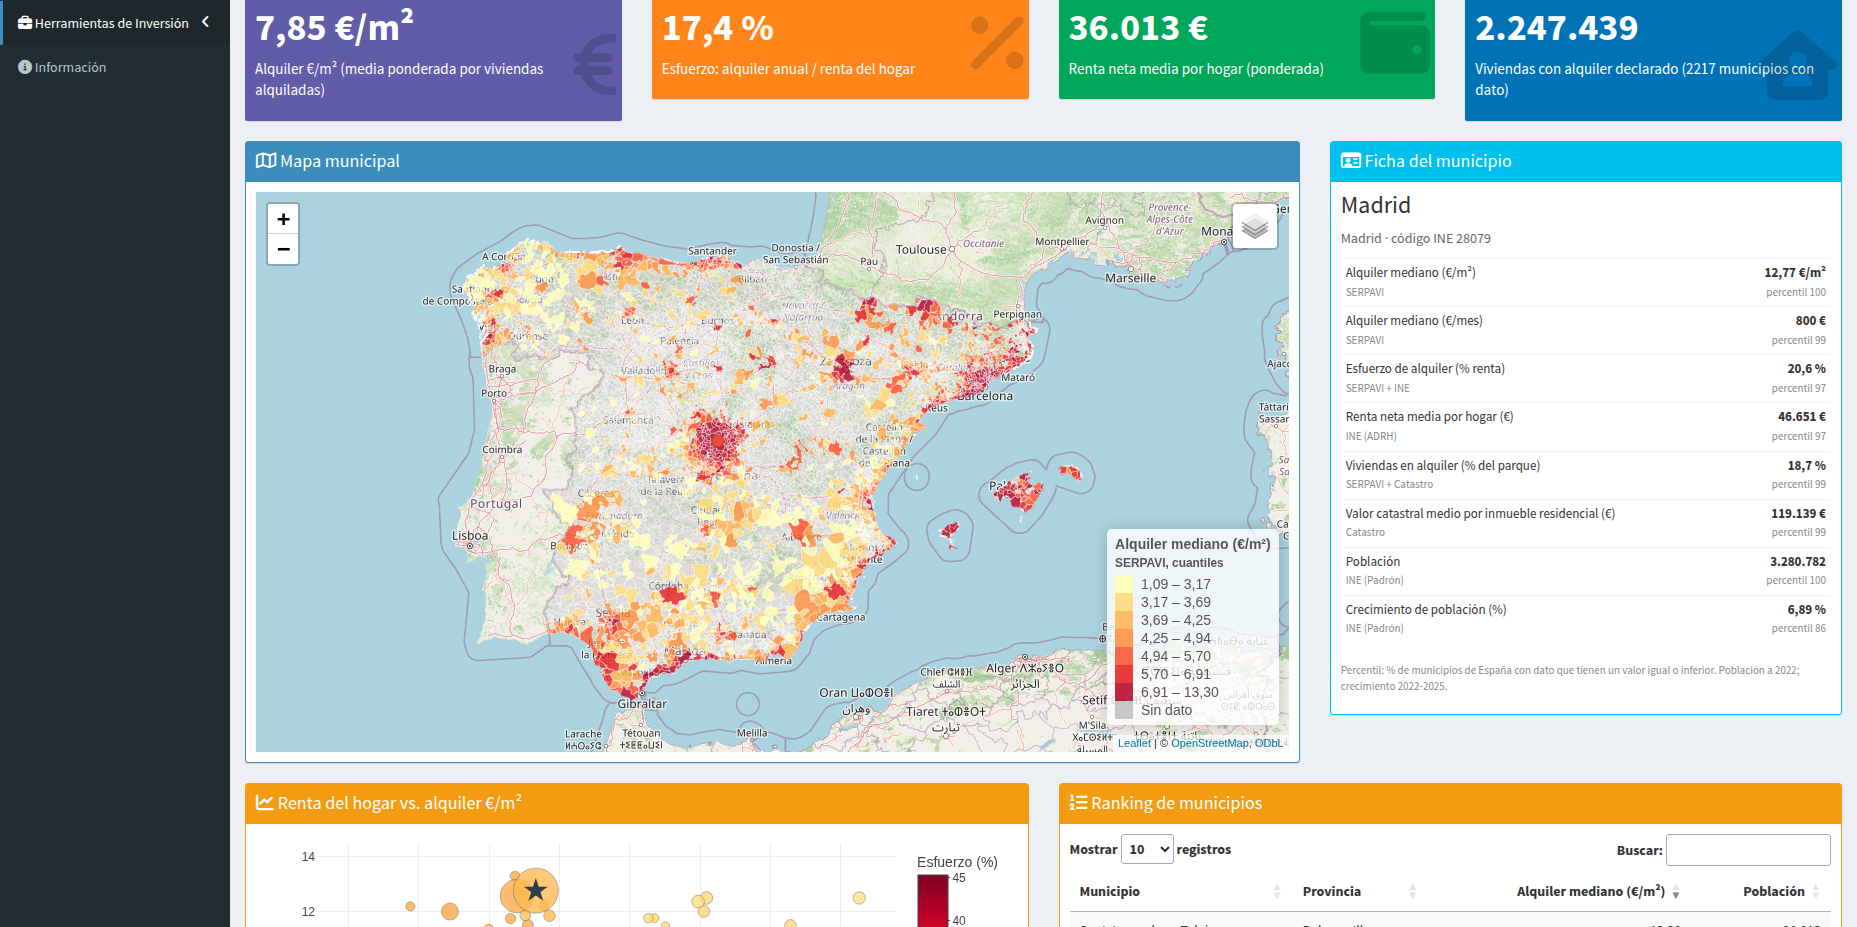
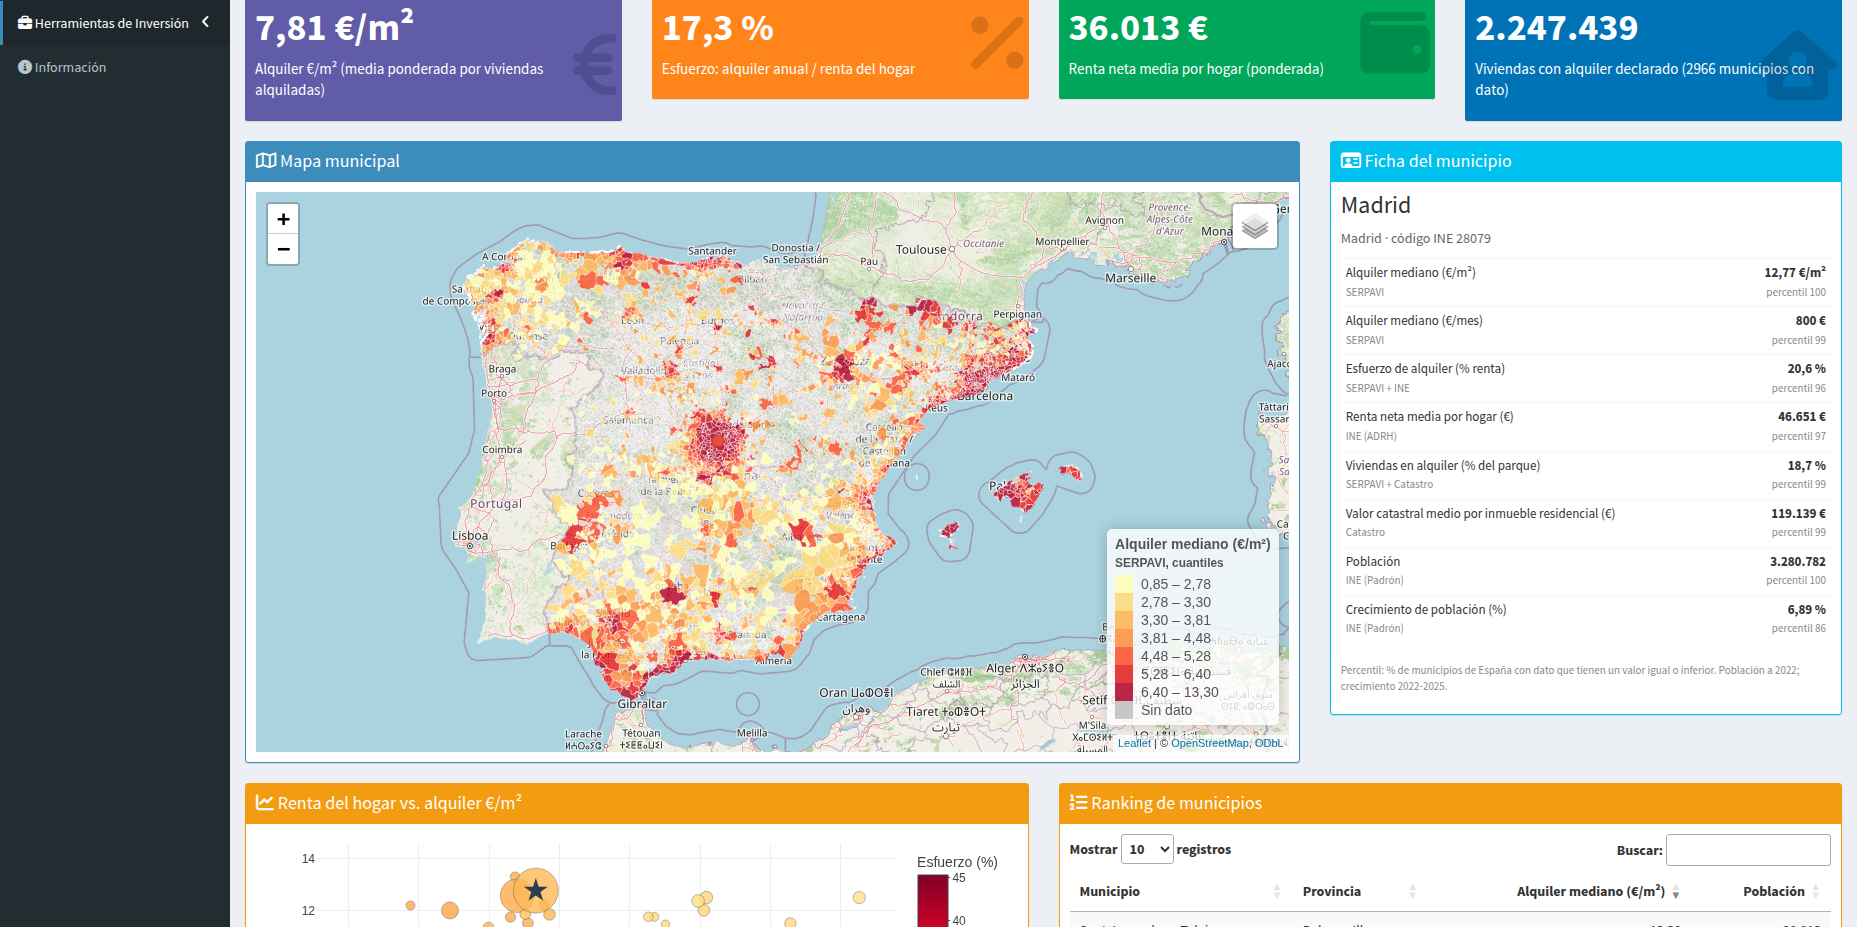
Updated Docs

diff --git a/README.md b/README.md
@@ -16,6 +16,7 @@
 ## Índice
 
 - [Descripción General](#descripcion-general)
+- [Arquitectura](#arquitectura)
 - [Características Principales / Módulos](#caracteristicas-principales)
   - [1. Exploración Espacial](#exploracion-espacial)
   - [2. Analítica & Machine Learning](#analitica-ml)
@@ -53,7 +54,33 @@ Para lograrlo, GeoAlquiler se apoya en tres pilares, más un observatorio a esca
 3. **Herramientas de Inversión** — traducir los datos en decisiones concretas de compra/alquiler mediante calculadoras y comparativas.
 4. **Observatorio del Alquiler en España** — mapa coroplético de los ~8.200 municipios que cruza el índice oficial de alquiler del Ministerio de Vivienda (SERPAVI) con la renta y la población del INE y el parque residencial del Catastro.
 
+### Cómo está construido
+
+La app se organiza en tres capas que no se mezclan, y cada cambio tiene un sitio claro (el esquema completo está en [Arquitectura](#arquitectura)):
+
+- **Ingesta offline** (`scripts/ingesta/`). Descargar, limpiar y cruzar las fuentes se hace a mano con `Rscript scripts/ingesta/run_pipeline.R`, nunca dentro de la app. El resultado son dos ficheros Parquet que viajan con el paquete, así que la app arranca rápido y no depende de que ninguna web externa responda. Si una fuente cambia de formato, falla el pipeline con un error explícito, no la app en producción.
+- **Lógica de negocio sin Shiny** (`R/fct_*.R`). Los cálculos que importan (indicadores, cruce de nombres de municipio, formato de cifras, geometría del mapa) son funciones puras que usan tanto el pipeline como la app, y se prueban con `testthat` sin levantar un servidor.
+- **Interfaz por módulos** (`R/mod_*.R`). Cada pantalla es un módulo independiente. `app_server.R` solo los ensambla y decide qué versión de los datos recibe cada uno, que es la decisión de diseño central de la app:
+
+| El módulo recibe… | Módulos | Por qué |
+|---|---|---|
+| `datos_visibles`: filtros + lo que se ve en el mapa | Tabla, Analítica, Estadística, Oportunidades, Calculadora, Informe, Exportar | Responden a "lo que estoy mirando ahora" |
+| Datos filtrados, sin recorte del mapa | Recomendador KNN | Buscar similares solo en el encuadre daría muy pocos candidatos |
+| Dataset completo | Comparador, Predicción, Barrios, Favoritos | Necesitan todo el mercado: entrenar el modelo, comparar ciudades, no perder favoritos al filtrar |
+| Su propio dataset | Observatorio | Datos oficiales agregados por municipio, independientes de los filtros |
+
+El trabajo pesado se hace en el servidor y al navegador solo llega lo que se va a pintar (ver [Rendimiento y Diseño Responsive](#rendimiento-responsive)).
+
 El proyecto está pensado como pieza de **portfolio técnico**, demostrando dominio de arquitectura de aplicaciones Shiny a nivel de paquete de R (framework `{golem}`), modularización, buenas prácticas de testing y un enfoque de producto orientado a un caso de uso real (PropTech / Real Estate Analytics). Los precios por zona proceden de fuentes reales (Generalitat de Catalunya, Generalitat Valenciana, Gobierno Vasco) o, donde no existe fuente oficial, de índices publicados documentados a mano (ver `scripts/ingesta/`).
+
+[⬆ Volver arriba](#top)
+
+---
+
+<a id="arquitectura"></a>
+## Arquitectura
+
+![Esquema de la arquitectura de GeoAlquiler: la ingesta offline genera dos ficheros Parquet; la app Shiny los carga en app_server.R, que reparte datos visibles, filtrados o completos a cada módulo, y el Observatorio carga su propio fichero una vez por proceso; el navegador recibe widgets ya preparados y devuelve clics, filtros y encuadre como eventos.](man/figures/arquitectura.svg)
 
 [⬆ Volver arriba](#top)
 
@@ -223,13 +250,14 @@ geo-alquiler/
 │   ├── mod_calculadora.R    # Módulo: calculadora de rentabilidad
 │   ├── mod_reporte.R        # Módulo: informe ejecutivo descargable
 │   ├── mod_observatorio.R   # Módulo: Observatorio del Alquiler en España (mapa coroplético)
-│   └── fct_observatorio.R   # Lógica del observatorio sin Shiny (indicadores, formato, WKB -> sf)
+│   └── fct_observatorio.R   # Lógica del observatorio sin Shiny (indicadores, formato, motivos de "sin dato",
+│                            #   WKB -> sf, serialización de la geometría para Leaflet, caché por proceso)
 ├── inst/
 │   └── app/
 │       ├── data/           # Datos empaquetados con la app (alquileres.parquet, observatorio_municipios.parquet)
 │       └── www/            # CSS/JS responsive (custom.css, custom.js) -- ver "Rendimiento y Diseño Responsive"
 ├── man/
-│   └── figures/            # Capturas de pantalla usadas en este README
+│   └── figures/            # Capturas de pantalla y esquema de arquitectura usados en este README
 ├── data/
 │   └── processed/          # Datos procesados en formatos .rds / .parquet
 ├── scripts/
@@ -254,7 +282,7 @@ geo-alquiler/
 │       ├── test_calculos.R        # Tests de lógica de cálculo (precio/m², KPIs, etc.)
 │       ├── test_mod_tabla.R       # Tests del módulo de tabla
 │       ├── test_tabla.R           # Tests adicionales de tabla/datos
-│       └── test_observatorio.R    # Tests del observatorio (indicadores, cruce de nombres, módulo)
+│       └── test_observatorio.R    # Tests del observatorio (indicadores, cruce de nombres, geometría, módulo)
 ├── renv.lock                      # Lockfile de renv (reproducibilidad de dependencias)
 └── geo-alquiler.Rproj             # Proyecto de RStudio
 ```
@@ -320,7 +348,7 @@ Los "anuncios" individuales son una ilustración generada dentro de cada zona ge
 
 ### Observatorio del Alquiler (SERPAVI + INE + Catastro)
 
-El Observatorio usa un segundo fichero, `inst/app/data/observatorio_municipios.parquet` (~4,7 MB, una fila por municipio con su geometría en WKB), generado por `scripts/ingesta/09_observatorio.R`:
+El Observatorio usa un segundo fichero, `inst/app/data/observatorio_municipios.parquet` (~4,8 MB, una fila por municipio con su geometría en WKB), generado por `scripts/ingesta/09_observatorio.R`:
 
 | Fuente | Qué se descarga | Cómo |
 |---|---|---|
@@ -363,7 +391,8 @@ El año de referencia común está en `ANIO_OBSERVATORIO` (`scripts/ingesta/00_c
 | [`DT`](https://cran.r-project.org/package=DT) | Tablas de datos interactivas |
 | [`plotly`](https://cran.r-project.org/package=plotly) | Gráficos interactivos de analítica visual |
 | [`sf`](https://cran.r-project.org/package=sf) | Geometría municipal del Observatorio (lectura del WKB guardado en Parquet) |
-| [`jsonlite`](https://cran.r-project.org/package=jsonlite) / [`htmltools`](https://cran.r-project.org/package=htmltools) | Serialización en caché de la geometría del Observatorio y etiquetas HTML |
+| [`htmlwidgets`](https://cran.r-project.org/package=htmlwidgets) | Aviso del navegador cuando el mapa del Observatorio ya está pintado (`onRender`), para enviar después el gráfico y el ranking |
+| [`jsonlite`](https://cran.r-project.org/package=jsonlite) | Lectura de los clics del gráfico del Observatorio |
 
 A esto se suma `{testthat}` como dependencia de desarrollo para la suite de tests, y `{renv}` para el control de versiones de todas las dependencias. Además, necesitas `{roxygen2}` instalado para generar el archivo `NAMESPACE` del paquete (ver paso 4 de la instalación) — sin él, la aplicación **no arranca correctamente**, ya que `NAMESPACE` es lo que le indica a R qué funciones de `shiny`, `leaflet`, `DT`, etc. debe poner a disposición del código de la app.
 
@@ -567,7 +596,7 @@ R CMD check --no-manual GeoAlquiler_*.tar.gz
 <a id="testing-calidad"></a>
 ## Testing & Calidad
 
-GeoAlquiler incluye una suite de **pruebas unitarias** con **[`{testthat}`](https://testthat.r-lib.org/)**, siguiendo la estructura estándar de un paquete de R (`tests/testthat/`). Las pruebas actuales cubren, entre otros aspectos, la lógica de cálculo de métricas (p. ej. precio por m²) y el comportamiento seguro de los KPIs ante conjuntos de datos vacíos, el módulo de tabla y el Observatorio (`test_observatorio.R`: indicadores derivados y su manejo de datos ausentes, formato numérico español, cortes por cuantiles, reconstrucción de la geometría, normalización y cruce de nombres de municipio entre INE/Catastro/IGN, parseo de las tablas del Catastro, y el módulo con `testServer`).
+GeoAlquiler incluye una suite de **pruebas unitarias** con **[`{testthat}`](https://testthat.r-lib.org/)**, siguiendo la estructura estándar de un paquete de R (`tests/testthat/`). Las pruebas actuales cubren, entre otros aspectos, la lógica de cálculo de métricas (p. ej. precio por m²) y el comportamiento seguro de los KPIs ante conjuntos de datos vacíos, el módulo de tabla y el Observatorio (`test_observatorio.R`: indicadores derivados y su manejo de datos ausentes, formato numérico español, cortes por cuantiles, reconstrucción de la geometría, normalización y cruce de nombres de municipio entre INE/Catastro/IGN, cruce aproximado de nombres renombrados o en otro idioma, motivo de cada dato ausente, parseo de las tablas del Catastro, que el JSON de geometría generado a mano sea idéntico al de Leaflet, la caché de geometría por ámbito, y el módulo con `testServer`).
 
 ### Ejecutar todos los tests
 

diff --git a/README.en.md b/README.en.md
@@ -16,6 +16,7 @@
 ## Table of Contents
 
 - [Overview](#overview)
+- [Architecture](#architecture)
 - [Key Features / Modules](#key-features)
   - [1. Spatial Exploration](#spatial-exploration)
   - [2. Analytics & Machine Learning](#analytics-ml)
@@ -53,7 +54,33 @@ To achieve this, GeoAlquiler is built on three pillars, plus a nationwide observ
 3. **Investment Tools** — turn the data into concrete buy/rent decisions through calculators and comparisons.
 4. **Spain Rental Observatory** — a choropleth map of Spain's ~8,200 municipalities that cross-references the Ministry of Housing's official rental index (SERPAVI) with INE income and population data and the Cadastre's housing stock.
 
+### How it's built
+
+The app is organized in three layers that don't mix, so every change has an obvious place (the full diagram is in [Architecture](#architecture)):
+
+- **Offline ingestion** (`scripts/ingesta/`). Downloading, cleaning and joining the sources is done by hand with `Rscript scripts/ingesta/run_pipeline.R`, never inside the app. The output is two Parquet files that ship with the package, so the app starts fast and doesn't depend on any external website being up. If a source changes format, the pipeline fails with an explicit error instead of the app failing in production.
+- **Business logic without Shiny** (`R/fct_*.R`). The calculations that matter (indicators, municipality name matching, number formatting, map geometry) are pure functions shared by the pipeline and the app, and they're tested with `testthat` without starting a server.
+- **Module-based interface** (`R/mod_*.R`). Each screen is an independent module. `app_server.R` only wires them together and decides which version of the data each one receives, which is the app's central design decision:
+
+| The module receives… | Modules | Why |
+|---|---|---|
+| `datos_visibles`: filters + what's visible on the map | Table, Analytics, Statistics, Opportunities, Calculator, Report, Export | They answer "what am I looking at right now" |
+| Filtered data, not cropped to the map | KNN Recommender | Searching for similar listings only within the map view would leave very few candidates |
+| Full dataset | Comparator, Prediction, Neighborhoods, Favorites | They need the whole market: training the model, comparing cities, not losing favorites when filtering |
+| Its own dataset | Observatory | Official data aggregated by municipality, independent of the filters |
+
+Heavy lifting happens on the server, and only what will be drawn reaches the browser (see [Performance & Responsive Design](#performance-responsive)).
+
 The project is designed as a **technical portfolio piece**, demonstrating mastery of Shiny application architecture at the R-package level (the `{golem}` framework), modularization, testing best practices, and a product-oriented approach to a real use case (PropTech / Real Estate Analytics). Per-zone prices come from real sources (Generalitat de Catalunya, Generalitat Valenciana, Basque Government) or, where no official source exists, from published indices documented by hand (see `scripts/ingesta/`).
+
+[⬆ Back to top](#top)
+
+---
+
+<a id="architecture"></a>
+## Architecture
+
+![GeoAlquiler architecture diagram: offline ingestion produces two Parquet files; the Shiny app loads them in app_server.R, which hands visible, filtered or full data to each module, while the Observatory loads its own file once per process; the browser receives ready-made widgets and sends clicks, filters and map view back as events.](man/figures/arquitectura.en.svg)
 
 [⬆ Back to top](#top)
 
@@ -223,13 +250,14 @@ geo-alquiler/
 │   ├── mod_calculadora.R    # Module: profitability calculator
 │   ├── mod_reporte.R        # Module: downloadable executive report
 │   ├── mod_observatorio.R   # Module: Spain Rental Observatory (choropleth map)
-│   └── fct_observatorio.R   # Observatory logic without Shiny (indicators, formatting, WKB -> sf)
+│   └── fct_observatorio.R   # Observatory logic without Shiny (indicators, formatting, "no data" reasons,
+│                            #   WKB -> sf, geometry serialization for Leaflet, per-process cache)
 ├── inst/
 │   └── app/
 │       ├── data/           # Data bundled with the app (alquileres.parquet, observatorio_municipios.parquet)
 │       └── www/            # Responsive CSS/JS (custom.css, custom.js) -- see "Performance & Responsive Design"
 ├── man/
-│   └── figures/            # Screenshots used in this README
+│   └── figures/            # Screenshots and architecture diagram used in this README
 ├── data/
 │   └── processed/          # Processed data in .rds / .parquet formats
 ├── scripts/
@@ -254,7 +282,7 @@ geo-alquiler/
 │       ├── test_calculos.R        # Calculation logic tests (price/m², KPIs, etc.)
 │       ├── test_mod_tabla.R       # Tests for the table module
 │       ├── test_tabla.R           # Additional table/data tests
-│       └── test_observatorio.R    # Observatory tests (indicators, name matching, module)
+│       └── test_observatorio.R    # Observatory tests (indicators, name matching, geometry, module)
 ├── renv.lock                      # renv lockfile (dependency reproducibility)
 └── geo-alquiler.Rproj             # RStudio project
 ```
@@ -320,7 +348,7 @@ Individual "listings" are an illustration generated within each geolocated zone 
 
 ### Rental Observatory (SERPAVI + INE + Cadastre)
 
-The Observatory uses a second file, `inst/app/data/observatorio_municipios.parquet` (~4.7 MB, one row per municipality with its geometry as WKB), generated by `scripts/ingesta/09_observatorio.R`:
+The Observatory uses a second file, `inst/app/data/observatorio_municipios.parquet` (~4.8 MB, one row per municipality with its geometry as WKB), generated by `scripts/ingesta/09_observatorio.R`:
 
 | Source | What's downloaded | How |
 |---|---|---|
@@ -363,7 +391,8 @@ The common reference year lives in `ANIO_OBSERVATORIO` (`scripts/ingesta/00_conf
 | [`DT`](https://cran.r-project.org/package=DT) | Interactive data tables |
 | [`plotly`](https://cran.r-project.org/package=plotly) | Interactive visual analytics charts |
 | [`sf`](https://cran.r-project.org/package=sf) | The Observatory's municipal geometry (reading the WKB stored in Parquet) |
-| [`jsonlite`](https://cran.r-project.org/package=jsonlite) / [`htmltools`](https://cran.r-project.org/package=htmltools) | Cached serialization of the Observatory's geometry and HTML labels |
+| [`htmlwidgets`](https://cran.r-project.org/package=htmlwidgets) | Browser signal once the Observatory map has been painted (`onRender`), so the chart and ranking are sent afterwards |
+| [`jsonlite`](https://cran.r-project.org/package=jsonlite) | Reading clicks on the Observatory chart |
 
 On top of this, `{testthat}` is used as a development dependency for the test suite, and `{renv}` for version control of all dependencies. You'll also need `{roxygen2}` installed to generate the package's `NAMESPACE` file (see step 4 of the installation) — without it, the application **won't start correctly**, since `NAMESPACE` is what tells R which functions from `shiny`, `leaflet`, `DT`, etc. should be made available to the app's code.
 
@@ -567,7 +596,7 @@ R CMD check --no-manual GeoAlquiler_*.tar.gz
 <a id="testing-quality"></a>
 ## Testing & Quality
 
-GeoAlquiler includes a suite of **unit tests** with **[`{testthat}`](https://testthat.r-lib.org/)**, following the standard structure of an R package (`tests/testthat/`). The current tests cover, among other things, the logic behind metric calculations (e.g., price per m²) and the safe behavior of KPIs when given empty datasets, the table module, and the Observatory (`test_observatorio.R`: derived indicators and how they handle missing data, Spanish number formatting, quantile breaks, geometry reconstruction, normalizing and matching municipality names across INE/Cadastre/IGN, parsing the Cadastre tables, and the module itself with `testServer`).
+GeoAlquiler includes a suite of **unit tests** with **[`{testthat}`](https://testthat.r-lib.org/)**, following the standard structure of an R package (`tests/testthat/`). The current tests cover, among other things, the logic behind metric calculations (e.g., price per m²) and the safe behavior of KPIs when given empty datasets, the table module, and the Observatory (`test_observatorio.R`: derived indicators and how they handle missing data, Spanish number formatting, quantile breaks, geometry reconstruction, normalizing and matching municipality names across INE/Cadastre/IGN, approximate matching of renamed or translated names, the reason behind each missing value, parsing the Cadastre tables, checking that the hand-built geometry JSON is identical to Leaflet's, the per-area geometry cache, and the module itself with `testServer`).
 
 ### Run all tests
 
